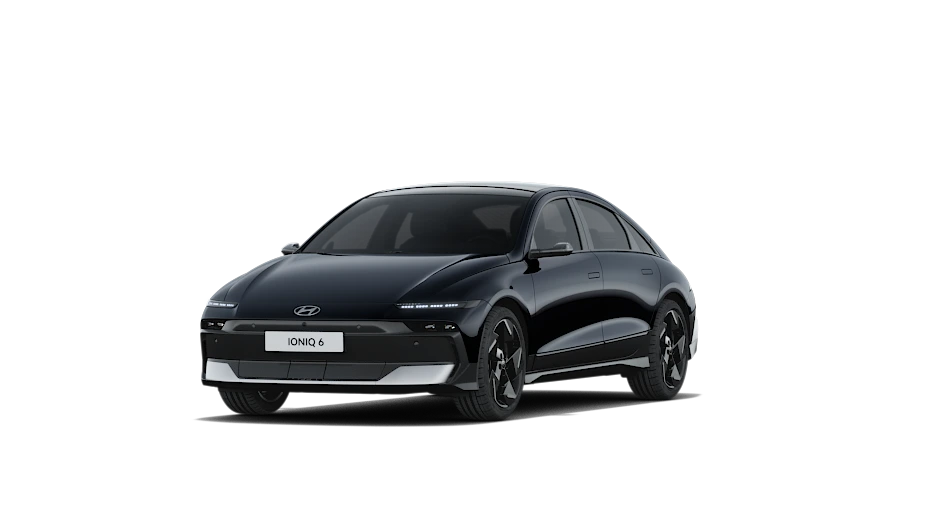
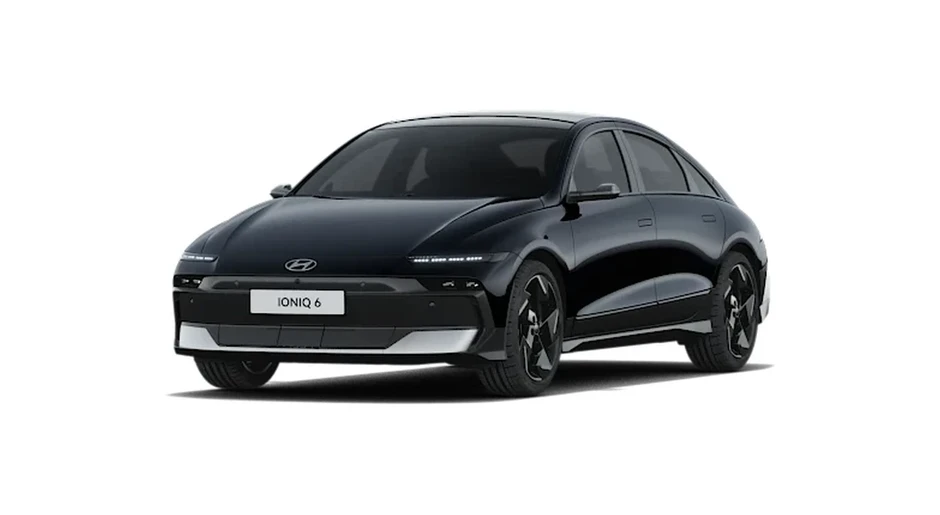
revert: 그랜저 spinStartFrame 제거 및 아이오닉6 대표이미지 크롭
- 그랜저/그랜저 하이브리드 spinStartFrame: 9 원상복귀 (이전 상태가 정확)
- hyundai-ioniq6.webp 자동 크롭+확대 (차량 면적 26% → 43%, 다른 차종과 통일)

Changed region(s): [[0.1851, 0.2175, 0.833, 0.8388]]

diff --git a/src/constants/vehicles.ts b/src/constants/vehicles.ts
@@ -26,8 +26,8 @@ export const VEHICLE_LIST: Vehicle[] = [
   { id: 'h03', brand: '현대', model: '아반떼 하이브리드', slug: 'avante-hybrid', category: '세단', segment: '준중형', fuel: '하이브리드', imageKey: 'hyundai-avante-hybrid', has360Spin: true, trims: ['스마트', '프리미엄', '인스퍼레이션'], seoTitle: '아반떼 하이브리드 장기렌트 | 월 납부금 비교', seoDescription: '현대 아반떼 하이브리드 장기렌터카. 연비 좋은 하이브리드 장기렌트 견적을 받아보세요.' },
   { id: 'h04', brand: '현대', model: '쏘나타 (DN8)', slug: 'sonata', category: '세단', segment: '중형', fuel: '가솔린', imageKey: 'hyundai-sonata', has360Spin: true, trims: ['프리미엄', '인스퍼레이션', '캘리그래피'], seoTitle: '쏘나타 장기렌트 | 월 납부금 비교', seoDescription: '현대 쏘나타 장기렌터카 최저가 견적. 중형 세단 장기렌트 조건을 비교해 보세요.' },
   { id: 'h05', brand: '현대', model: '쏘나타 하이브리드', slug: 'sonata-hybrid', category: '세단', segment: '중형', fuel: '하이브리드', imageKey: 'hyundai-sonata-hybrid', has360Spin: true, trims: ['프리미엄', '인스퍼레이션', '캘리그래피'], seoTitle: '쏘나타 하이브리드 장기렌트 | 월 납부금 비교', seoDescription: '현대 쏘나타 하이브리드 장기렌터카. 연비와 성능을 모두 갖춘 장기렌트 견적.' },
-  { id: 'h06', brand: '현대', model: '그랜저 (GN7)', slug: 'grandeur', category: '세단', segment: '준대형', fuel: '가솔린', imageKey: 'hyundai-grandeur', has360Spin: true, spinStartFrame: 9, trims: ['프리미엄', '캘리그래피', '르블랑'], seoTitle: '그랜저 장기렌트 | 월 납부금 비교', seoDescription: '현대 그랜저 장기렌터카 최저가 견적. 준대형 세단 장기렌트 월 납부금을 비교해 보세요.' },
-  { id: 'h07', brand: '현대', model: '그랜저 하이브리드', slug: 'grandeur-hybrid', category: '세단', segment: '준대형', fuel: '하이브리드', imageKey: 'hyundai-grandeur-hybrid', has360Spin: true, spinStartFrame: 9, trims: ['프리미엄', '캘리그래피', '르블랑'], seoTitle: '그랜저 하이브리드 장기렌트 | 월 납부금 비교', seoDescription: '현대 그랜저 하이브리드 장기렌터카. 프리미엄 하이브리드 장기렌트 견적.' },
+  { id: 'h06', brand: '현대', model: '그랜저 (GN7)', slug: 'grandeur', category: '세단', segment: '준대형', fuel: '가솔린', imageKey: 'hyundai-grandeur', has360Spin: true, trims: ['프리미엄', '캘리그래피', '르블랑'], seoTitle: '그랜저 장기렌트 | 월 납부금 비교', seoDescription: '현대 그랜저 장기렌터카 최저가 견적. 준대형 세단 장기렌트 월 납부금을 비교해 보세요.' },
+  { id: 'h07', brand: '현대', model: '그랜저 하이브리드', slug: 'grandeur-hybrid', category: '세단', segment: '준대형', fuel: '하이브리드', imageKey: 'hyundai-grandeur-hybrid', has360Spin: true, trims: ['프리미엄', '캘리그래피', '르블랑'], seoTitle: '그랜저 하이브리드 장기렌트 | 월 납부금 비교', seoDescription: '현대 그랜저 하이브리드 장기렌터카. 프리미엄 하이브리드 장기렌트 견적.' },
   { id: 'h08', brand: '현대', model: '코나 (SX2)', slug: 'kona', category: 'SUV', segment: '소형 SUV', fuel: '가솔린', imageKey: 'hyundai-kona', has360Spin: true, trims: ['스마트', '프리미엄', '인스퍼레이션'], seoTitle: '코나 장기렌트 | 월 납부금 비교', seoDescription: '현대 코나 장기렌터카. 소형 SUV 장기렌트 견적을 비교해 보세요.' },
   { id: 'h09', brand: '현대', model: '코나 하이브리드', slug: 'kona-hybrid', category: 'SUV', segment: '소형 SUV', fuel: '하이브리드', imageKey: 'hyundai-kona-hybrid', has360Spin: true, trims: ['스마트', '프리미엄', '인스퍼레이션'], seoTitle: '코나 하이브리드 장기렌트 | 월 납부금 비교', seoDescription: '현대 코나 하이브리드 장기렌터카. 연비 좋은 소형 SUV 장기렌트.' },
   { id: 'h10', brand: '현대', model: '투싼 (NX4)', slug: 'tucson', category: 'SUV', segment: '준중형 SUV', fuel: '가솔린', imageKey: 'hyundai-tucson', has360Spin: true, trims: ['모던', '프리미엄', '인스퍼레이션', '캘리그래피'], seoTitle: '투싼 장기렌트 | 월 납부금 비교', seoDescription: '현대 투싼 장기렌터카 최저가 견적. 인기 SUV 장기렌트 조건을 비교해 보세요.' },
